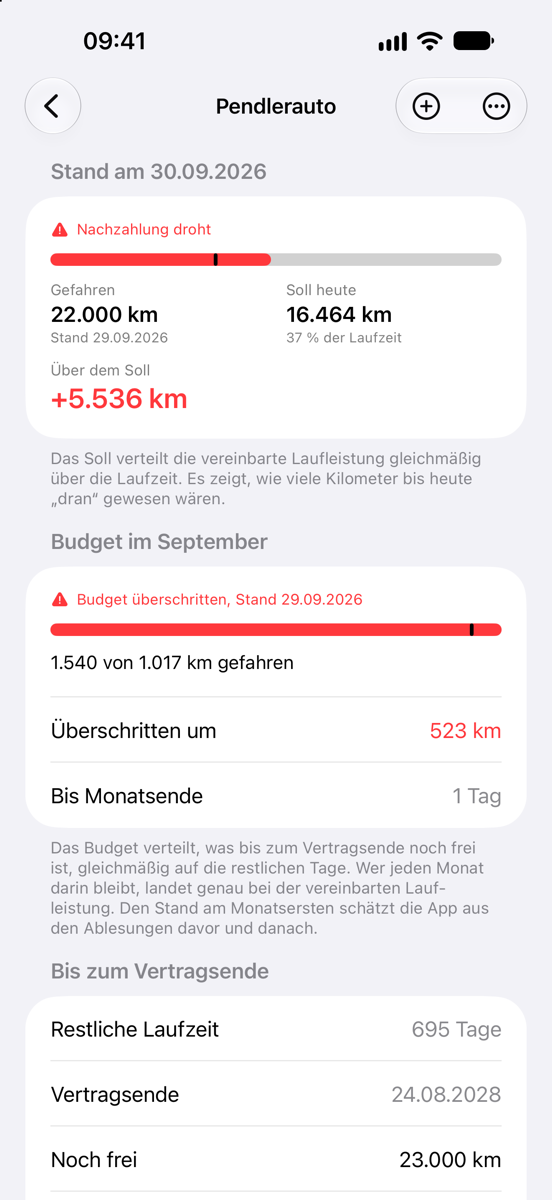
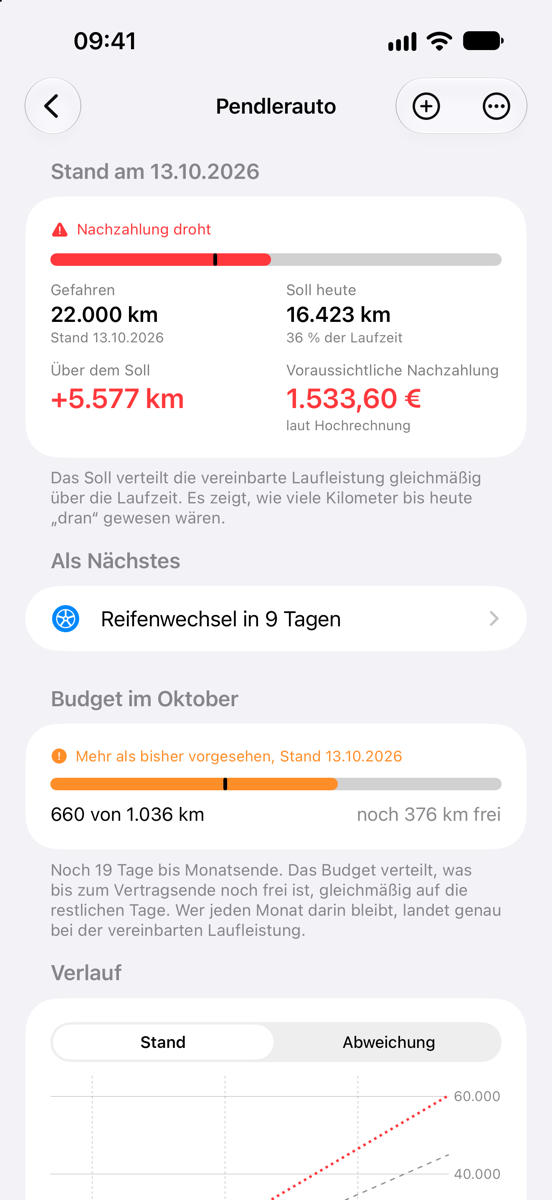
Version 1.4: Kosten und Wartung, Galeriebilder, Datenschutz Stand 13.10.

diff --git a/index.html b/index.html
@@ -88,12 +88,20 @@
         <figcaption><strong>Alle Verträge auf einen Blick</strong> Mit der erwarteten Nachzahlung oder Vergütung</figcaption>
       </figure>
       <figure>
-        <img src="bilder/03-Hochrechnung.png" width="552" height="1200" loading="lazy" decoding="async" alt="Detailseite eines Vertrags: oben die Zeilen „Rückgabe vorbereiten“ mit dem Fortschritt der Checkliste und „Anschlussvertrag planen“, darunter die Hochrechnung mit angenommenen Kilometern je Tag, Laufleistung am Vertragsende, Abweichung und voraussichtlicher Nachzahlung mit Rechenweg sowie der Knopf „Was kostet eine Fahrt?“." />
+        <img src="bilder/03-Hochrechnung.png" width="552" height="1200" loading="lazy" decoding="async" alt="Seite „Hochrechnung“ eines Vertrags: Art der Hochrechnung, angenommene Kilometer je Tag, Laufleistung am Vertragsende, Abweichung und voraussichtliche Nachzahlung mit Rechenweg, dazu der Knopf „Was kostet eine Fahrt?“ und die Rechnung für den Fall, dass ab heute kein Kilometer mehr dazukommt." />
         <figcaption><strong>Hochrechnung auf das Vertragsende</strong> In Euro, nach den Regeln deines Vertrags</figcaption>
       </figure>
       <figure>
         <img src="bilder/07-Fahrtkosten.png" width="552" height="1200" loading="lazy" decoding="async" alt="Rechner „Was kostet eine Fahrt?“: 1.200 Kilometer hin und zurück. Mit dem Zweitwagen kostet die Fahrt nichts, weil sie in der Freigrenze bleibt, mit dem Familienauto 43,25 Euro weniger Vergütung, mit dem Pendlerauto 288 Euro mehr Nachzahlung." />
         <figcaption><strong>Was kostet diese Fahrt?</strong> Und mit welchem Auto sie am günstigsten ist</figcaption>
+      </figure>
+      <figure>
+        <img src="bilder/12-Kosten.png" width="552" height="1200" loading="lazy" decoding="async" alt="Seite „Kosten“ eines Vertrags: Gesamtkosten 17.587,60 Euro über die ganze Laufzeit, aufgeteilt in 36 Raten zu 349 Euro, Anzahlung und Nebenkosten und die erwartete Nachzahlung, dazu effektiv 488,54 Euro je Monat und 29 Cent je Kilometer." />
+        <figcaption><strong>Was kostet dein Leasing wirklich?</strong> Raten, Anzahlung und Abrechnung zusammen</figcaption>
+      </figure>
+      <figure>
+        <img src="bilder/11-Wartung.png" width="552" height="1200" loading="lazy" decoding="async" alt="Seite „Wartung“: Reifenwechsel auf Winterreifen in 9 Tagen, Inspektion bei 30.000 Kilometern, voraussichtlich im März 2027, und ein eigener Termin für die Bremsflüssigkeit, darunter Vorlagen zum Hinzufügen." />
+        <figcaption><strong>Inspektion und Reifen im Blick</strong> Erinnerung nach Datum oder Kilometerstand</figcaption>
       </figure>
       <figure>
         <img src="bilder/08-Widget.png" width="552" height="1200" loading="lazy" decoding="async" alt="Home-Bildschirm mit dem Widget von Leasingtacho: Vergütung am Vertragsende, Abweichung vom Soll, das Budget für den Monat und ein Knopf zum Erfassen." />
@@ -112,7 +120,7 @@
         <figcaption><strong>Kilometerstand in Sekunden erfasst</strong> Eintippen, per Kamera oder mit Siri</figcaption>
       </figure>
       <figure>
-        <img src="bilder/02-Vertrag.png" width="552" height="1200" loading="lazy" decoding="async" alt="Detailseite eines Vertrags: gefahrene Kilometer, Soll zum heutigen Tag, Abweichung vom Soll und darunter das Budget für den laufenden Monat mit dem, was davon schon gefahren ist." />
+        <img src="bilder/02-Vertrag.png" width="552" height="1200" loading="lazy" decoding="async" alt="Seite eines Vertrags: gefahrene Kilometer, Soll zum heutigen Tag, Abweichung vom Soll und voraussichtliche Nachzahlung, darunter „Als Nächstes“ mit dem anstehenden Reifenwechsel und das Budget für den laufenden Monat." />
         <figcaption><strong>Liegst du im Rahmen?</strong> Mit Budget für den laufenden Monat</figcaption>
       </figure>
       <figure>
@@ -155,6 +163,10 @@
           <p>Wie viele Kilometer diesen Monat drin sind, wie viel davon gefahren ist und was noch frei ist – so verteilt, dass du genau bei der vereinbarten Laufleistung landest.</p>
         </li>
         <li>
+          <h4>Was kostet dein Leasing wirklich?</h4>
+          <p>Trag Monatsrate, Anzahlung, Überführung und Zulassung ein, und die App rechnet die Gesamtkosten über die Laufzeit aus – mit der erwarteten Nachzahlung oder Vergütung, effektiv je Monat und je gefahrenem Kilometer. Auf der Startseite stehen die Raten aller Autos zusammen.</p>
+        </li>
+        <li>
           <h4>Rechnet wie dein Vertrag</h4>
           <p>Sätze für Mehr- und Minderkilometer, Freigrenzen und eine Obergrenze für die Vergütung trägst du so ein, wie sie im Vertrag stehen. Nach dem Vertragsende zeigt die App die Schlussabrechnung.</p>
         </li>
@@ -195,6 +207,10 @@
           <p>Jeder Vertrag mit eigener Detailseite, dazu eine Gesamtübersicht über alle zusammen.</p>
         </li>
         <li>
+          <h4>Wartung im Blick</h4>
+          <p>Inspektion, Reifenwechsel, Hauptuntersuchung und eigene Termine – nach Datum, nach Kilometerstand oder beidem. Bei einem Kilometerstand schätzt die App aus deiner Fahrweise, wann es so weit ist, und erinnert zwei Wochen vorher. Nach „Erledigt“ steht der nächste Termin schon da.</p>
+        </li>
+        <li>
           <h4>Checkliste für die Rückgabe</h4>
           <p>Was drei Monate, vier Wochen und eine Woche vor der Rückgabe ansteht, am Rückgabetag und danach – mit den Terminen, die sich aus deinem Vertragsende ergeben. Eigene Punkte ergänzt du selbst. Mehr dazu im <a href="leasingrueckgabe.html">Ratgeber zur Leasingrückgabe</a>.</p>
         </li>
@@ -212,7 +228,7 @@
         </li>
         <li>
           <h4>App-Sperre</h4>
-          <p>Auf Wunsch mit Face&#160;ID, Touch&#160;ID oder Gerätecode.</p>
+          <p>Auf Wunsch mit Face&#160;ID, Touch&#160;ID oder Gerätecode. Die Widgets auf dem Sperrbildschirm zeigen dann keine Zahlen.</p>
         </li>
         <li>
           <h4>Export</h4>
@@ -246,7 +262,7 @@
         </li>
         <li>
           <h3>Ohne Kauf</h3>
-          <p>Deine Verträge und Ablesungen bleiben sichtbar und lassen sich weiter exportieren. Die Rückgabe-Checkliste kannst du weiter lesen. Neue Ablesungen, neue Verträge, „Was kostet eine Fahrt?“, „Anschlussvertrag planen“ und das Abhaken der Checkliste gibt es nur mit der Vollversion.</p>
+          <p>Deine Verträge und Ablesungen bleiben sichtbar und lassen sich weiter exportieren. Rückgabe-Checkliste, Kosten und Wartungstermine kannst du weiter lesen. Neue Ablesungen, neue Verträge, „Was kostet eine Fahrt?“, „Anschlussvertrag planen“, das Abhaken der Checkliste und das Planen der Wartung gibt es nur mit der Vollversion.</p>
         </li>
       </ul>
       <p class="fussnote">Der Preis gilt in Deutschland; in anderen Ländern nennt dir die App vor dem Kauf den dortigen Betrag. Hast du schon gekauft, holst du die Vollversion auf einem anderen Gerät in den Einstellungen der App über „Käufe wiederherstellen“ zurück.</p>

diff --git a/datenschutz.html b/datenschutz.html
@@ -26,7 +26,7 @@
   <div class="spalte">
 
     <h1>Datenschutzerklärung für die App „Leasingtacho“</h1>
-    <p class="stand">Stand: 10.&#160;Oktober 2026</p>
+    <p class="stand">Stand: 13.&#160;Oktober 2026</p>
 
     <h2>Verantwortlicher</h2>
     <address>
@@ -40,8 +40,9 @@
 
     <h2>Welche Daten die App verarbeitet</h2>
     <ul>
-      <li><strong>Vertragsdaten:</strong> Fahrzeugbezeichnung, Vertragsbeginn und Laufzeit, vereinbarte Laufleistung, Kilometerstand bei Übernahme, Sätze für Mehr- und Minderkilometer, Freigrenzen, Einstellungen zur Hochrechnung und Erinnerung sowie deine Notizen.</li>
+      <li><strong>Vertragsdaten:</strong> Fahrzeugbezeichnung, Vertragsbeginn und Laufzeit, vereinbarte Laufleistung, Kilometerstand bei Übernahme, Sätze für Mehr- und Minderkilometer, Freigrenzen, Einstellungen zur Hochrechnung und Erinnerung, auf Wunsch Monatsrate, Anzahlung und Nebenkosten sowie deine Notizen.</li>
       <li><strong>Ablesungen:</strong> Datum, Kilometerstand und Notiz.</li>
+      <li><strong>Wartungstermine:</strong> Art, Bezeichnung, Fälligkeit nach Datum oder Kilometerstand, Abstand und letzte Erledigung.</li>
       <li><strong>Einstellungen:</strong> Erscheinungsbild, App-Sperre, die zuletzt gewählte Ansicht des Diagramms und wann die App zuletzt um eine Bewertung gebeten hat.</li>
     </ul>
     <p>Diese Daten speichert die App auf deinem Gerät. Sie dienen allein dazu, dir deinen Stand im Leasingvertrag zu zeigen.</p>
@@ -58,10 +59,10 @@
     <p>Die App-Sperre ist freiwillig. Die Prüfung übernimmt iOS; die App erfährt nur, ob sie erfolgreich war. Biometrische Daten erhält die App nicht.</p>
 
     <h2>Erinnerungen</h2>
-    <p>Erinnerungen an fällige Ablesungen und an das Vertragsende sind Mitteilungen, die die App auf deinem Gerät plant. Dafür wird nichts an einen Server übertragen.</p>
+    <p>Erinnerungen an fällige Ablesungen, an das Vertragsende und an Wartungstermine sind Mitteilungen, die die App auf deinem Gerät plant. Dafür wird nichts an einen Server übertragen.</p>
 
     <h2>Widgets</h2>
-    <p>Damit die Widgets deinen Stand zeigen können, legt die App eine Kopie deiner Verträge und Ablesungen in einem geschützten Bereich auf deinem Gerät ab, den nur die App und ihre Widgets lesen können. Die Kopie verlässt das Gerät nicht. Ist in der App die Sperre mit Face&#160;ID, Touch&#160;ID oder Gerätecode eingeschaltet, zeigen die Widgets auf dem gesperrten Gerät keine Beträge.</p>
+    <p>Damit die Widgets deinen Stand zeigen können, legt die App eine Kopie deiner Verträge und Ablesungen in einem geschützten Bereich auf deinem Gerät ab, den nur die App und ihre Widgets lesen können. Die Kopie verlässt das Gerät nicht. Ist in der App die Sperre mit Face&#160;ID, Touch&#160;ID oder Gerätecode eingeschaltet, zeigen die Widgets auf dem Sperrbildschirm und im StandBy keine Zahlen, sondern nur den Namen des Fahrzeugs.</p>
 
     <h2>Siri und Kurzbefehle</h2>
     <p>Nutzt du den Kurzbefehl „Kilometerstand erfassen“ mit Siri, verarbeitet Apple deine Spracheingabe nach seinen eigenen Bestimmungen. Die App erhält nur den erkannten Kilometerstand und den gewählten Vertrag.</p>
